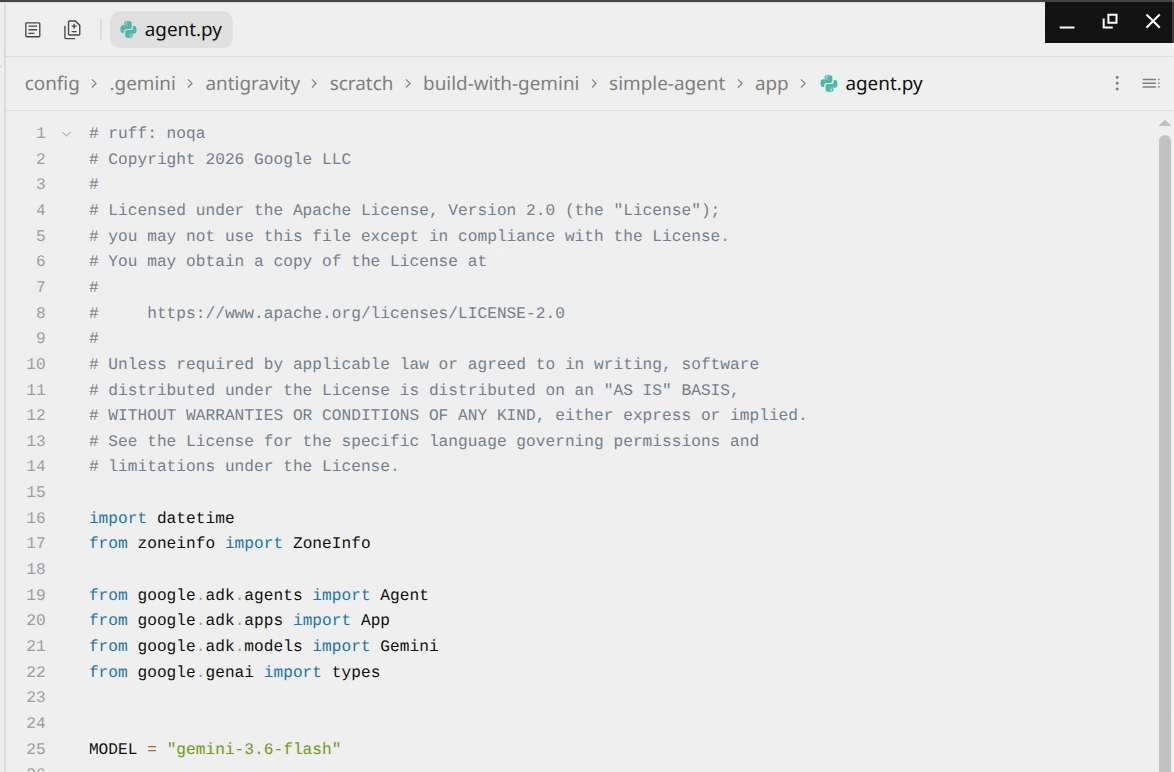
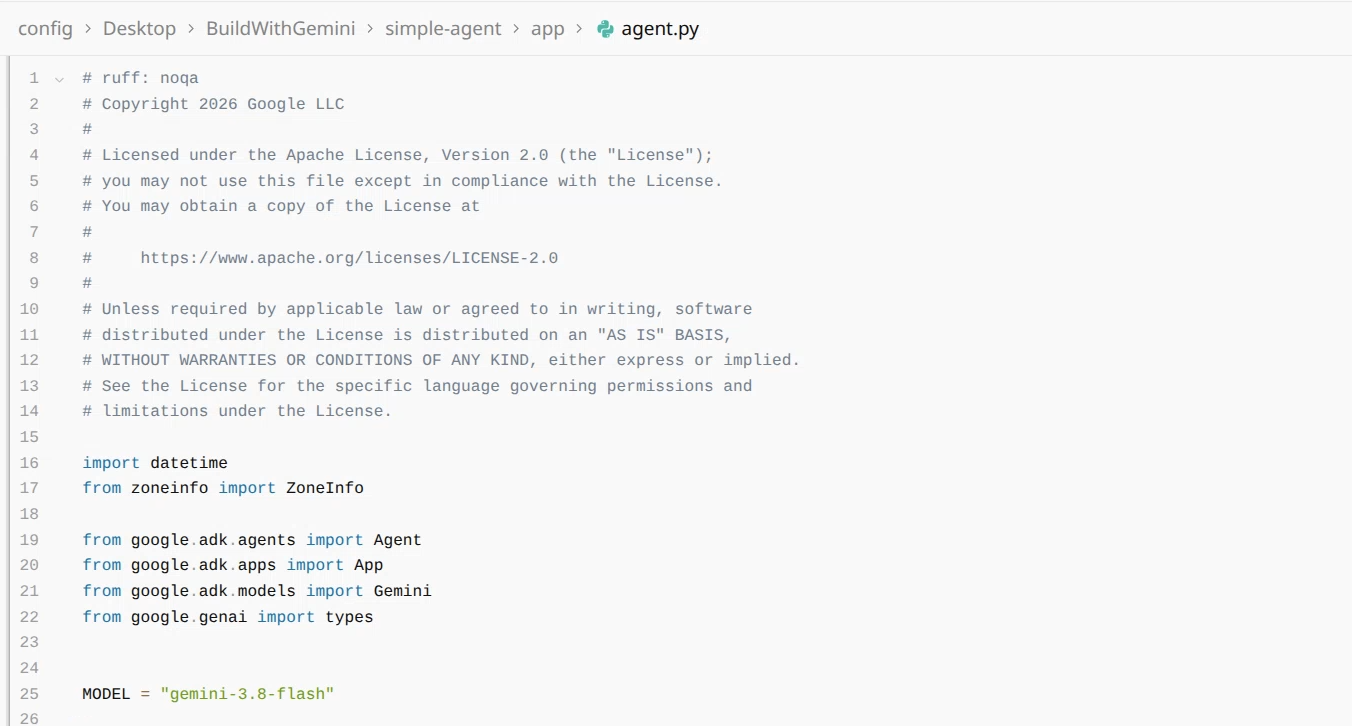
Use Gemini 3.8 Flash in first-agent step; rename skill badge section
Match the live VM guide: the first-agent prompt now pins Gemini 3.8 Flash,
with updated scaffold and agent.py screenshots. The badge section is now
"Earn the Google Developer Badge" and drops the quiz description.

diff --git a/index.html b/index.html
@@ -464,7 +464,7 @@ Your setup is complete — let's start building! 🎊
 Later in this lab, you'll design your own bespoke agentic application. But for now, let's build and test a basic agent together. Tell AGY to build a basic agent and run it locally.
 
 ```
-Use agents-cli to build a simple agent I can test and run it locally.
+Use agents-cli to build a simple agent I can test and run it locally. Make sure to use Gemini 3.8 flash model.
 ```
 
 When it's done, AGY should produce something like:
@@ -1025,17 +1025,17 @@ When it's done, AGY prints your new repo's URL and a **pre-filled submission for
 - Submitting the form is how you enter for the project gallery — the form itself lists the current eligibility terms.
 - **Standout projects** get hand-picked by the team and featured (with a link to your repo) in the **Build with Gemini track 3 GitHub gallery**.
 
-# Earn a Skill Badge
+# Earn the Google Developer Badge
 
-Now that you've finished the workshop, you can earn an official **Build with Gemini** Skill Badge for your Google Developer Profile. It's an Intermediate quiz that takes about **30 minutes** and confirms what you learned here.
+Now that you've finished the workshop, you can earn an official **Build with Gemini** badge for your Google Developer profile.
 
 Claim it today:
 
-[Claim your Build with Gemini Skill Badge](https://developers.google.com/profile/badges/events/community/build-with-gemini/track3-software-developer/award?utm_source=events-with-google&utm_medium=et&utm_campaign=FY26-Q3-BuildwithGemini&utm_content=track3_appbuilders&utm_term=-)
+[Claim your Build with Gemini Badge](https://developers.google.com/profile/badges/events/community/build-with-gemini/track3-software-developer/award?utm_source=events-with-google&utm_medium=et&utm_campaign=FY26-Q3-BuildwithGemini&utm_content=track3_appbuilders&utm_term=-)
 
 Or scan the QR code to open it on your phone:
 
-![Scan to earn your Build with Gemini Skill Badge](images/skill-badge-qr.png)
+![Scan to earn your Build with Gemini Badge](images/skill-badge-qr.png)
 
 Congratulations! You've designed, built, equipped, evaluated, deployed, shared, *and* published a complete agentic application.
 

diff --git a/gsi.html b/gsi.html
@@ -440,7 +440,7 @@ Your setup is complete — let's start building! 🎊
 Later in this lab, you'll design your own bespoke agentic application. But for now, let's build and test a basic agent together. Tell AGY to build a basic agent and run it locally.
 
 ```
-Use agents-cli to build a simple agent I can test and run it locally.
+Use agents-cli to build a simple agent I can test and run it locally. Make sure to use Gemini 3.8 flash model.
 ```
 
 When it's done, AGY should produce something like:
@@ -998,17 +998,17 @@ What happens, and where you stay in control:
 
 When it's done, AGY prints your new repo's URL.
 
-# Earn a Skill Badge
+# Earn the Google Developer Badge
 
-Now that you've finished the workshop, you can earn an official **Build with Gemini** Skill Badge for your Google Developer Profile. It's an Intermediate quiz that takes about **30 minutes** and confirms what you learned here.
+Now that you've finished the workshop, you can earn an official **Build with Gemini** badge for your Google Developer profile.
 
 Claim it today:
 
-[Claim your Build with Gemini Skill Badge](https://developers.google.com/profile/badges/events/community/build-with-gemini/track3-software-developer/award?utm_source=events-with-google&utm_medium=et&utm_campaign=FY26-Q3-BuildwithGemini&utm_content=track3_appbuilders&utm_term=-)
+[Claim your Build with Gemini Badge](https://developers.google.com/profile/badges/events/community/build-with-gemini/track3-software-developer/award?utm_source=events-with-google&utm_medium=et&utm_campaign=FY26-Q3-BuildwithGemini&utm_content=track3_appbuilders&utm_term=-)
 
 Or scan the QR code to open it on your phone:
 
-![Scan to earn your Build with Gemini Skill Badge](images/skill-badge-qr.png)
+![Scan to earn your Build with Gemini Badge](images/skill-badge-qr.png)
 
 Congratulations! You've designed, built, equipped, evaluated, deployed, shared, *and* published a complete agentic application.
 

diff --git a/site/Gemini World 3 QwikLab 2.0.md b/site/Gemini World 3 QwikLab 2.0.md
@@ -96,7 +96,7 @@ Your setup is complete — let's start building! 🎊
 Later in this lab, you'll design your own bespoke agentic application. But for now, let's build and test a basic agent together. Tell AGY to build a basic agent and run it locally.
 
 ```
-Use agents-cli to build a simple agent I can test and run it locally.
+Use agents-cli to build a simple agent I can test and run it locally. Make sure to use Gemini 3.8 flash model.
 ```
 
 When it's done, AGY should produce something like:
@@ -667,16 +667,16 @@ When it's done, AGY prints your new repo's URL and a **pre-filled submission for
 When it's done, AGY prints your new repo's URL.
 <!-- /variant -->
 
-# Earn a Skill Badge
+# Earn the Google Developer Badge
 
-Now that you've finished the workshop, you can earn an official **Build with Gemini** Skill Badge for your Google Developer Profile. It's an Intermediate quiz that takes about **30 minutes** and confirms what you learned here.
+Now that you've finished the workshop, you can earn an official **Build with Gemini** badge for your Google Developer profile.
 
 Claim it today:
 
-[Claim your Build with Gemini Skill Badge](https://developers.google.com/profile/badges/events/community/build-with-gemini/track3-software-developer/award?utm_source=events-with-google&utm_medium=et&utm_campaign=FY26-Q3-BuildwithGemini&utm_content=track3_appbuilders&utm_term=-)
+[Claim your Build with Gemini Badge](https://developers.google.com/profile/badges/events/community/build-with-gemini/track3-software-developer/award?utm_source=events-with-google&utm_medium=et&utm_campaign=FY26-Q3-BuildwithGemini&utm_content=track3_appbuilders&utm_term=-)
 
 Or scan the QR code to open it on your phone:
 
-![Scan to earn your Build with Gemini Skill Badge](images/skill-badge-qr.png)
+![Scan to earn your Build with Gemini Badge](images/skill-badge-qr.png)
 
 Congratulations! You've designed, built, equipped, evaluated, deployed, shared, *and* published a complete agentic application.
